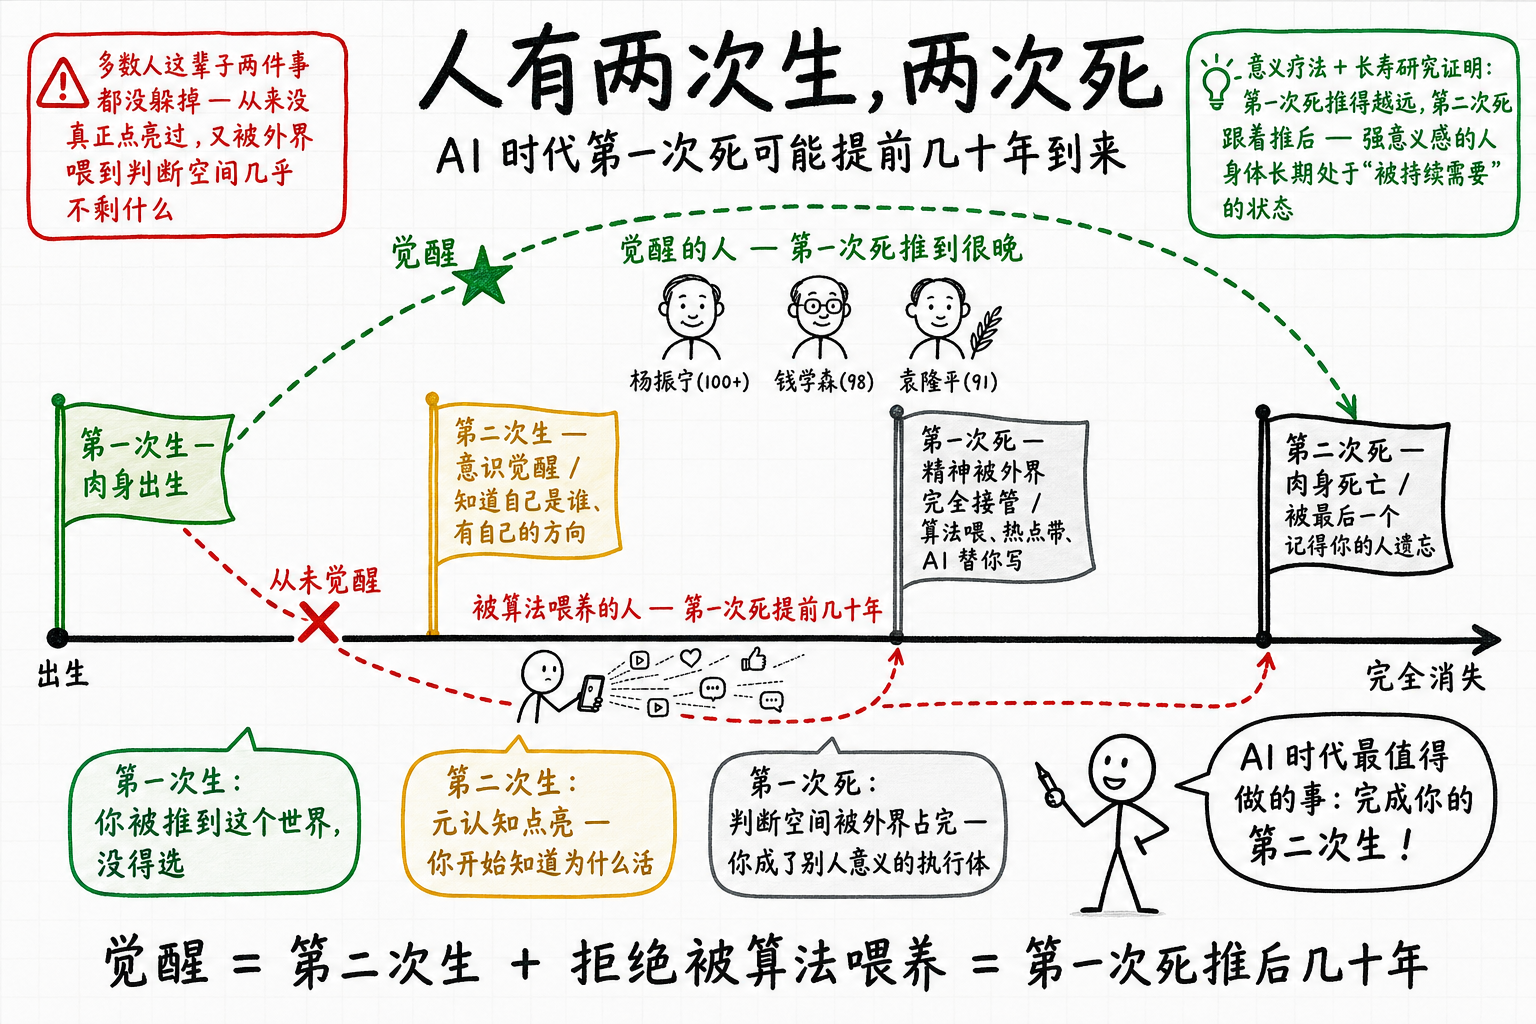
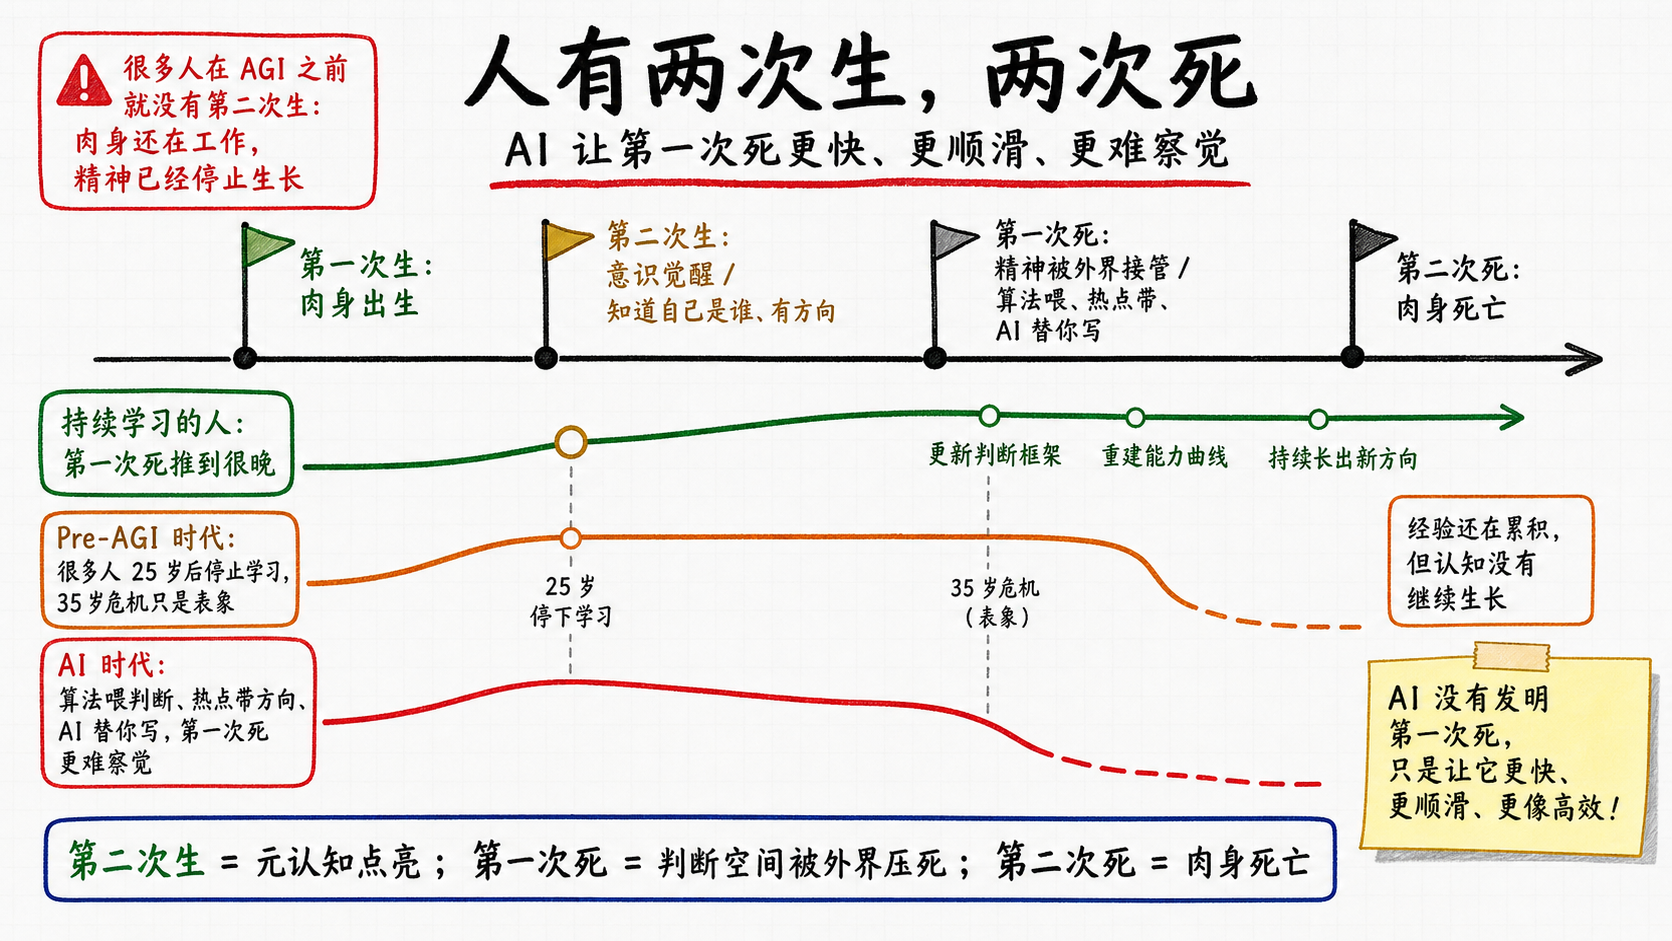
Refine metacognition life-death section

Changed region(s): [[0.0, 0.0, 1.0, 0.9862], [0.6562, 0.678, 0.6875, 0.7088]]

diff --git a/articles/metacognition-ai-era/image-prompts.md b/articles/metacognition-ai-era/image-prompts.md
@@ -239,7 +239,7 @@
 
 位置：第五章，两次生两次死。
 
-生成一张"专家白板教学"风格的手绘信息图，主题：人有两次生两次死 — AI 时代第一次死可能提前几十年到来，横版 16:9，背景为干净白色白板或浅灰网格纸。
+生成一张"专家白板教学"风格的手绘信息图，主题：人有两次生两次死 — AI 让第一次死更快、更顺滑、更难察觉，横版 16:9，背景为干净白色白板或浅灰网格纸。
 
 **视觉元素：** 横向时间轴布局。
 
@@ -247,19 +247,21 @@
 1. 浅绿色旗"第一次生：肉身出生"
 2. 金黄色旗"第二次生：意识觉醒 / 知道自己是谁、有方向"
 3. 深灰色旗"第一次死：精神被外界接管 / 算法喂、热点带、AI 替你写"
-4. 黑色旗"第二次死：肉身死亡 / 被最后一个记得你的人遗忘"
+4. 黑色旗"第二次死：肉身死亡"
 
-**画面上方：** 绿色路径线经过"第二次生"后保持高位，标注"觉醒的人：第一次死推到很晚"。
+**画面上方：** 绿色路径线经过"第二次生"后保持高位，标注"持续学习的人：第一次死推到很晚"。路径上加三个绿色小节点："更新判断框架"、"重建能力曲线"、"持续长出新方向"。
 
-**画面下方：** 红色路径线绕过"第二次生"，早早掉到"第一次死"，标注"被喂养的人：第一次死提前几十年"。
+**画面中间：** 橙色路径线在 25 岁附近开始变平，绕过"第二次生"，在 35 岁危机附近掉入"第一次死"，标注"Pre-AGI 时代：很多人 25 岁后停止学习，35 岁危机只是表象"。路径旁写"经验还在累积，但认知没有继续生长"。
 
-**画面左上：** 红边警示框写"从来没真正点亮过，又被外界喂到判断空间几乎不剩什么"。
+**画面下方：** 红色路径线更早、更顺滑地下滑到"第一次死"，标注"AI 时代：算法喂判断、热点带方向、AI 替你写，第一次死更难察觉"。
 
-**画面右下角：** 黄色便签写"AI 时代最该防的，不是肉身被替代，而是精神被替代而你不知道！"
+**画面左上：** 红边警示框写"很多人在 AGI 之前就没有第二次生：肉身还在工作，精神已经停止生长"。
 
-**文字：** 标题"人有两次生，两次死"，副标题"AI 时代第一次死可能提前几十年到来"。底部写"第二次生 = 元认知点亮；第一次死 = 判断空间被外界压死"。
+**画面右下角：** 黄色便签写"AI 没有发明第一次死，只是让它更快、更顺滑、更像高效！"
 
-**内容结构：** 横向时间轴 + 两条路径对比，无人物，无火柴人。
+**文字：** 标题"人有两次生，两次死"，副标题"AI 让第一次死更快、更顺滑、更难察觉"。底部写"第二次生 = 元认知点亮；第一次死 = 判断空间被外界压死；第二次死 = 肉身死亡"。
+
+**内容结构：** 横向时间轴 + 三条路径对比（持续学习 / Pre-AGI 停止成长 / AI 时代顺滑下滑），无人物，无火柴人。
 
 ## 12-why-vs-how-ai.png
 
